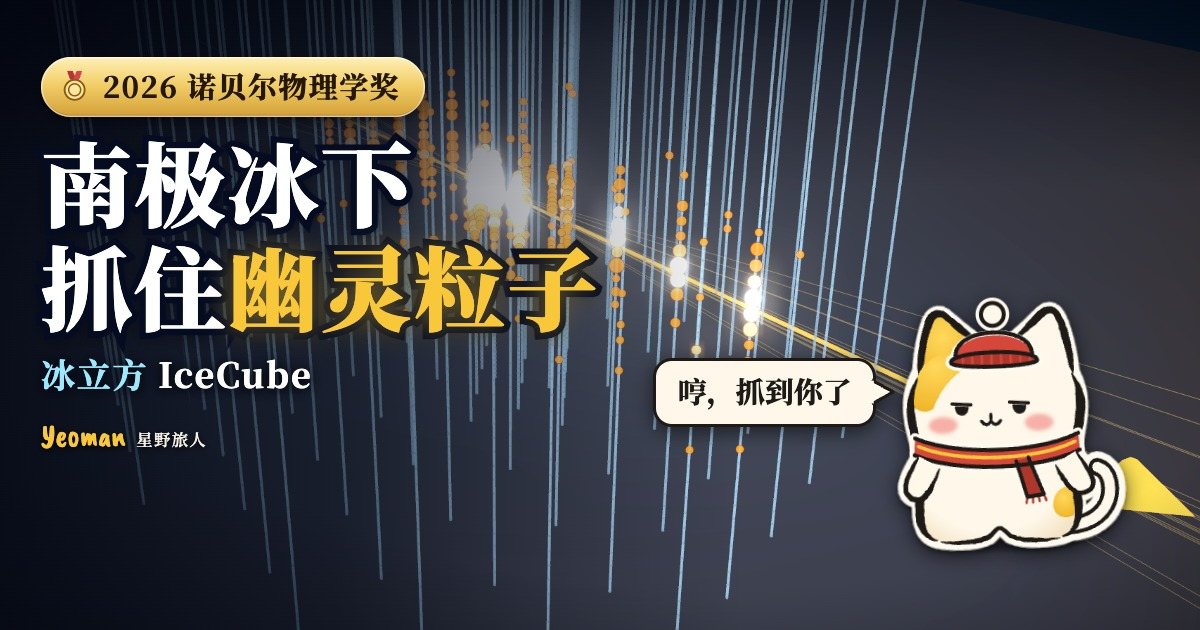
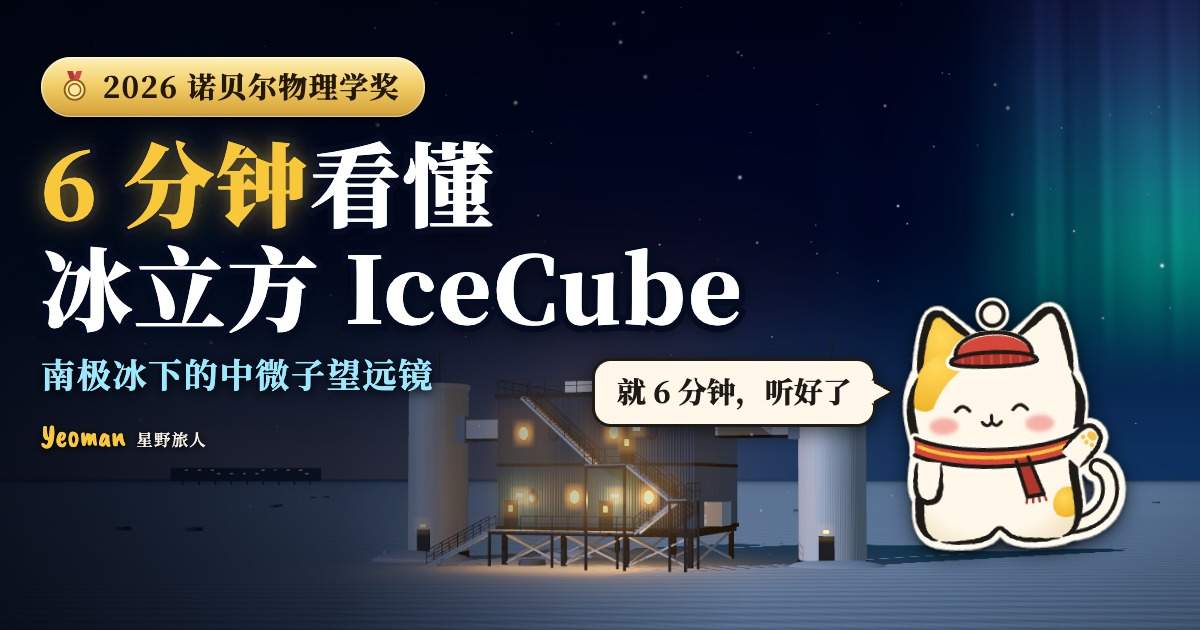
Publish 20261006a_icecube-nobel2026 (2026-10-07)

diff --git a/film.html b/film.html
@@ -12,12 +12,12 @@
   <meta property="og:url" content="https://yoemanleung.github.io/yeoman-nobel2026-icecube/film.html" />
   <meta property="og:type" content="website" />
   <meta property="og:site_name" content="星野旅人 Yeoman" />
-  <meta property="og:title" content="冰立方 IceCube：南极冰下，抓住幽灵粒子 | 2026 诺贝尔物理学奖" />
+  <meta property="og:title" content="6 分钟看懂冰立方 IceCube | 2026 诺贝尔物理学奖" />
   <meta property="og:description" content="一部可以暂停、倒放和亲手接管的科学短片：一颗来自约 40 亿光年外的中微子，怎样在南极冰下一立方公里的探测器里留下光，又怎样被找回方向。" />
   <meta property="og:image" content="https://yoemanleung.github.io/yeoman-nobel2026-icecube/share.jpg" />
   <meta property="og:image:width" content="1200" />
   <meta property="og:image:height" content="630" />
-  <meta property="og:image:alt" content="小猫 Yeoman 和冰立方探测器里的一次中微子事件，标题：南极冰下，抓住幽灵粒子" />
+  <meta property="og:image:alt" content="小猫 Yeoman 在极光下的南极冰立方实验楼旁挥手，标题：6 分钟看懂冰立方 IceCube" />
   <meta property="og:locale" content="zh_CN" />
   <meta name="twitter:card" content="summary_large_image" />
   <!-- self-hosted font subsets (web/_tools/fonts.py): no Google Fonts, which mainland China cannot reach -->

diff --git a/index.html b/index.html
@@ -11,12 +11,12 @@
   <meta property="og:url" content="https://yoemanleung.github.io/yeoman-nobel2026-icecube/" />
   <meta property="og:type" content="website" />
   <meta property="og:site_name" content="星野旅人 Yeoman" />
-  <meta property="og:title" content="冰立方 IceCube：南极冰下，抓住幽灵粒子 | 2026 诺贝尔物理学奖" />
+  <meta property="og:title" content="6 分钟看懂冰立方 IceCube | 2026 诺贝尔物理学奖" />
   <meta property="og:description" content="一部可以暂停、倒放和亲手接管的科学短片：一颗来自约 40 亿光年外的中微子，怎样在南极冰下一立方公里的探测器里留下光，又怎样被找回方向。" />
   <meta property="og:image" content="https://yoemanleung.github.io/yeoman-nobel2026-icecube/share.jpg" />
   <meta property="og:image:width" content="1200" />
   <meta property="og:image:height" content="630" />
-  <meta property="og:image:alt" content="小猫 Yeoman 和冰立方探测器里的一次中微子事件，标题：南极冰下，抓住幽灵粒子" />
+  <meta property="og:image:alt" content="小猫 Yeoman 在极光下的南极冰立方实验楼旁挥手，标题：6 分钟看懂冰立方 IceCube" />
   <meta property="og:locale" content="zh_CN" />
   <meta name="twitter:card" content="summary_large_image" />
   <!-- self-hosted font subsets (web/_tools/fonts.py): no Google Fonts, which mainland China cannot reach -->
